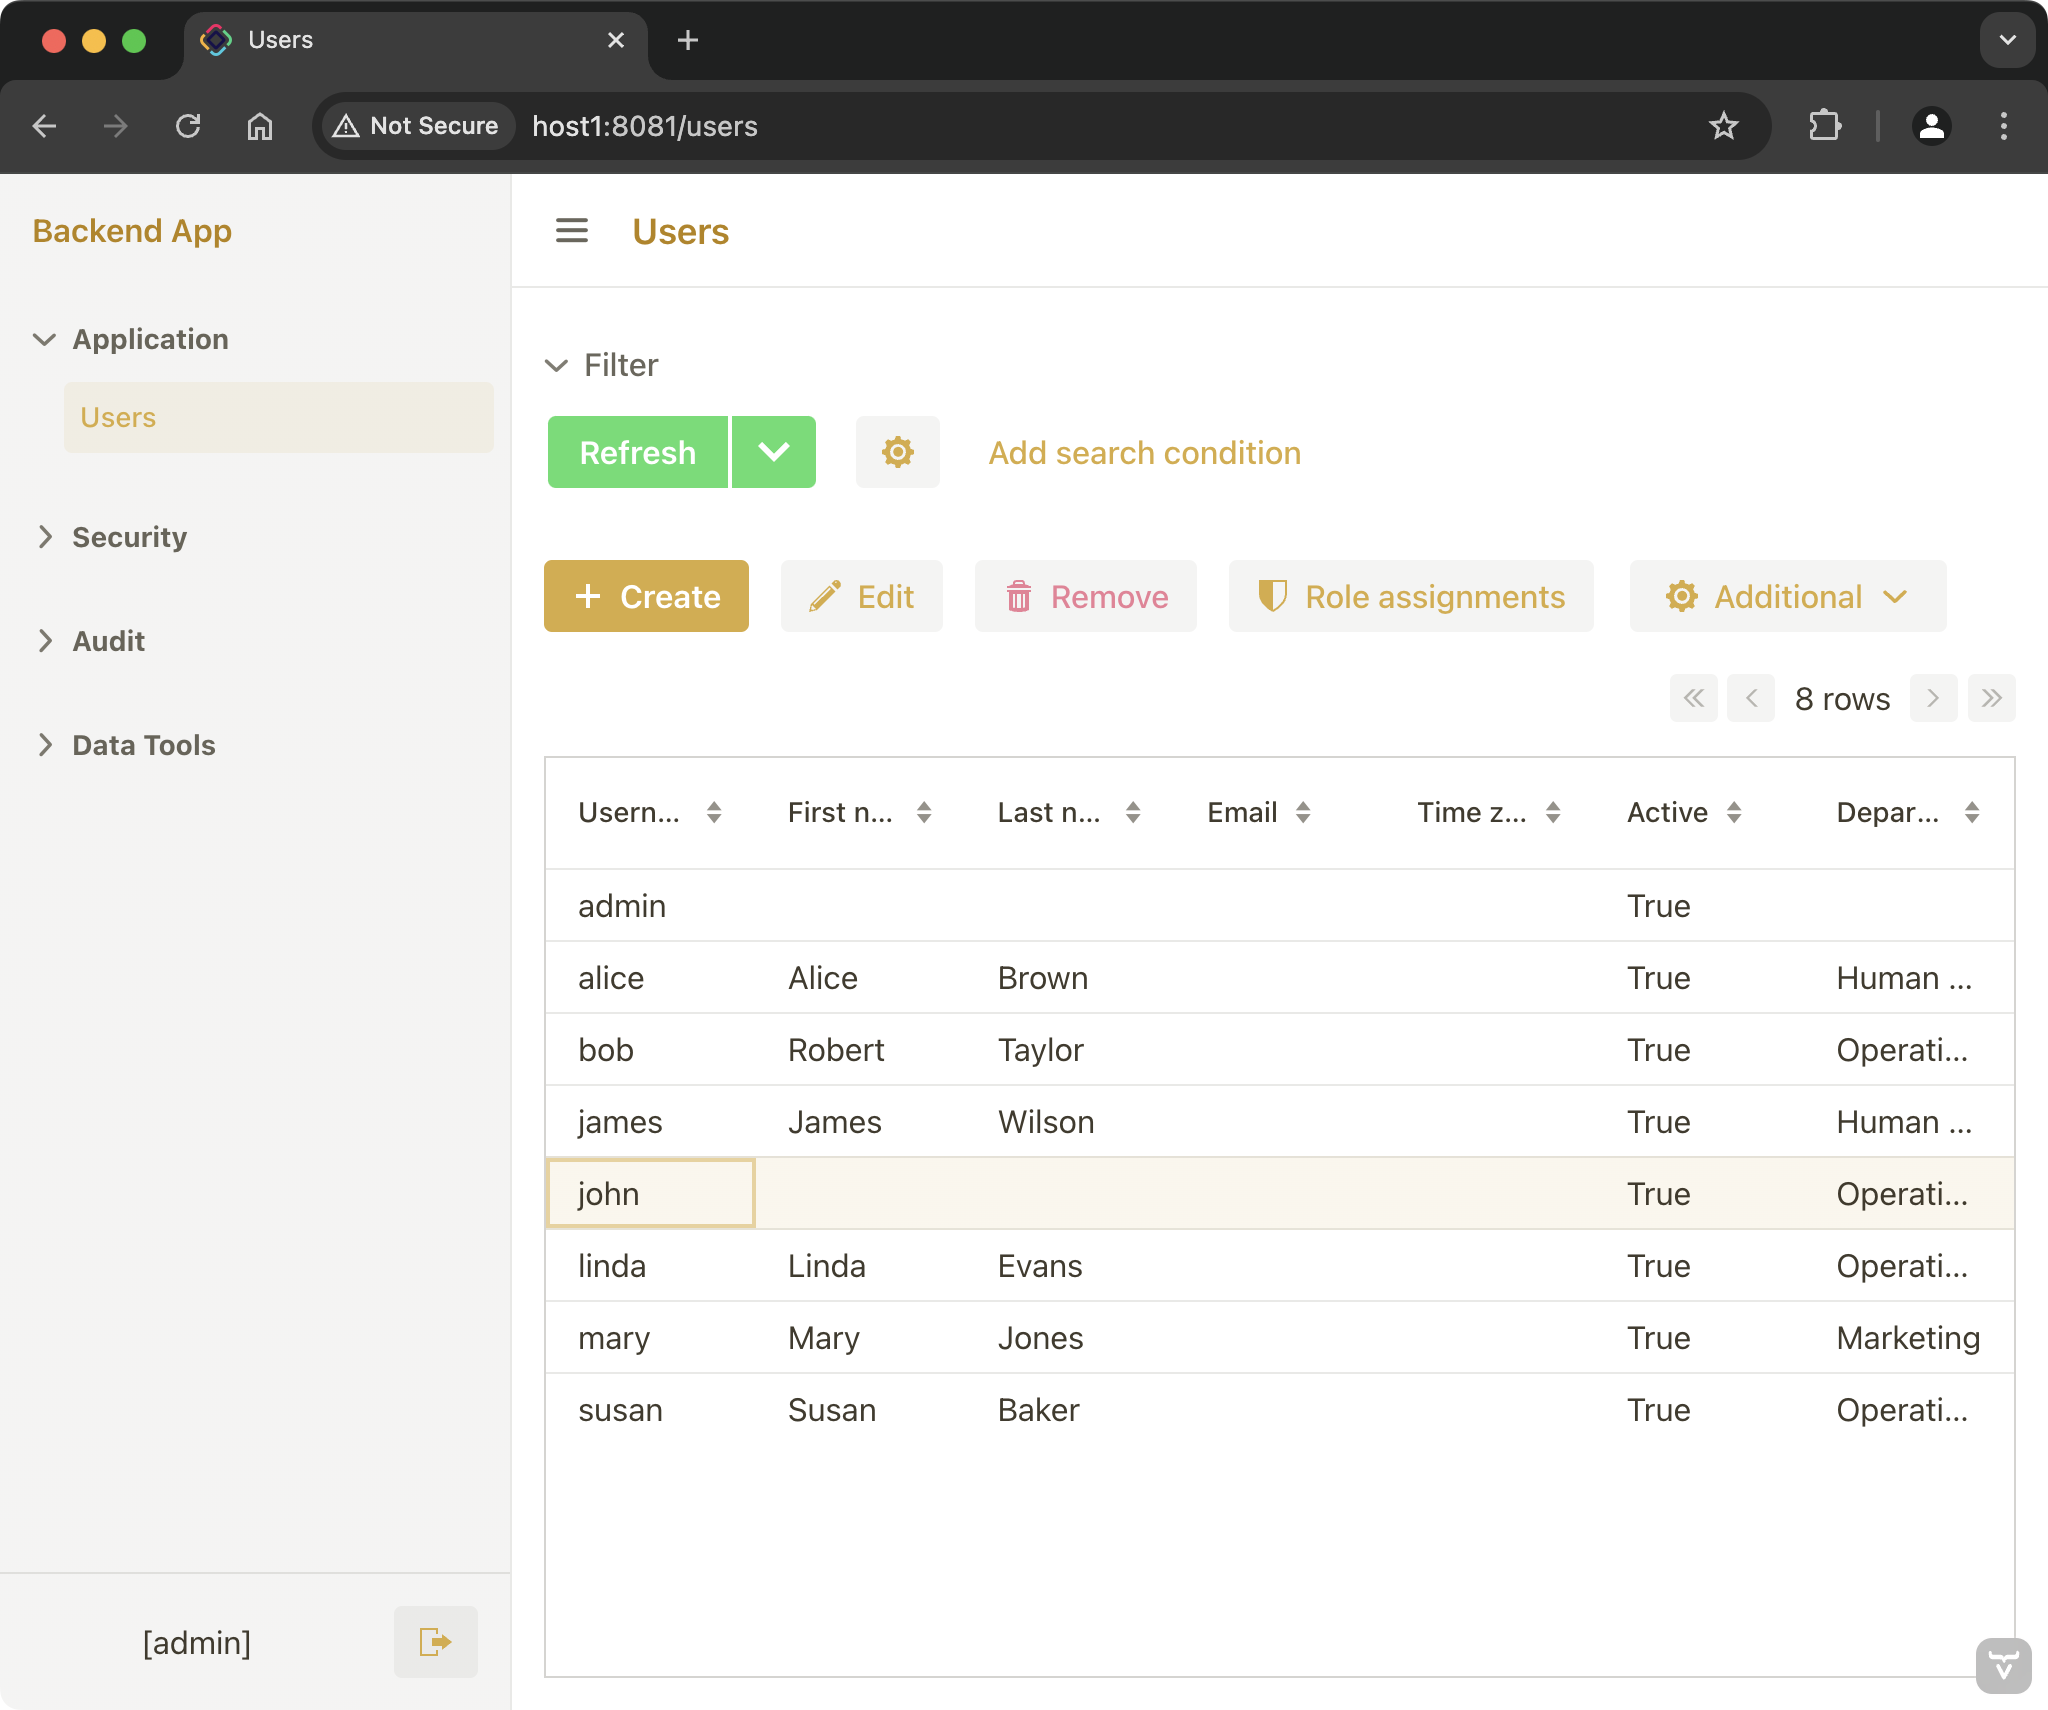
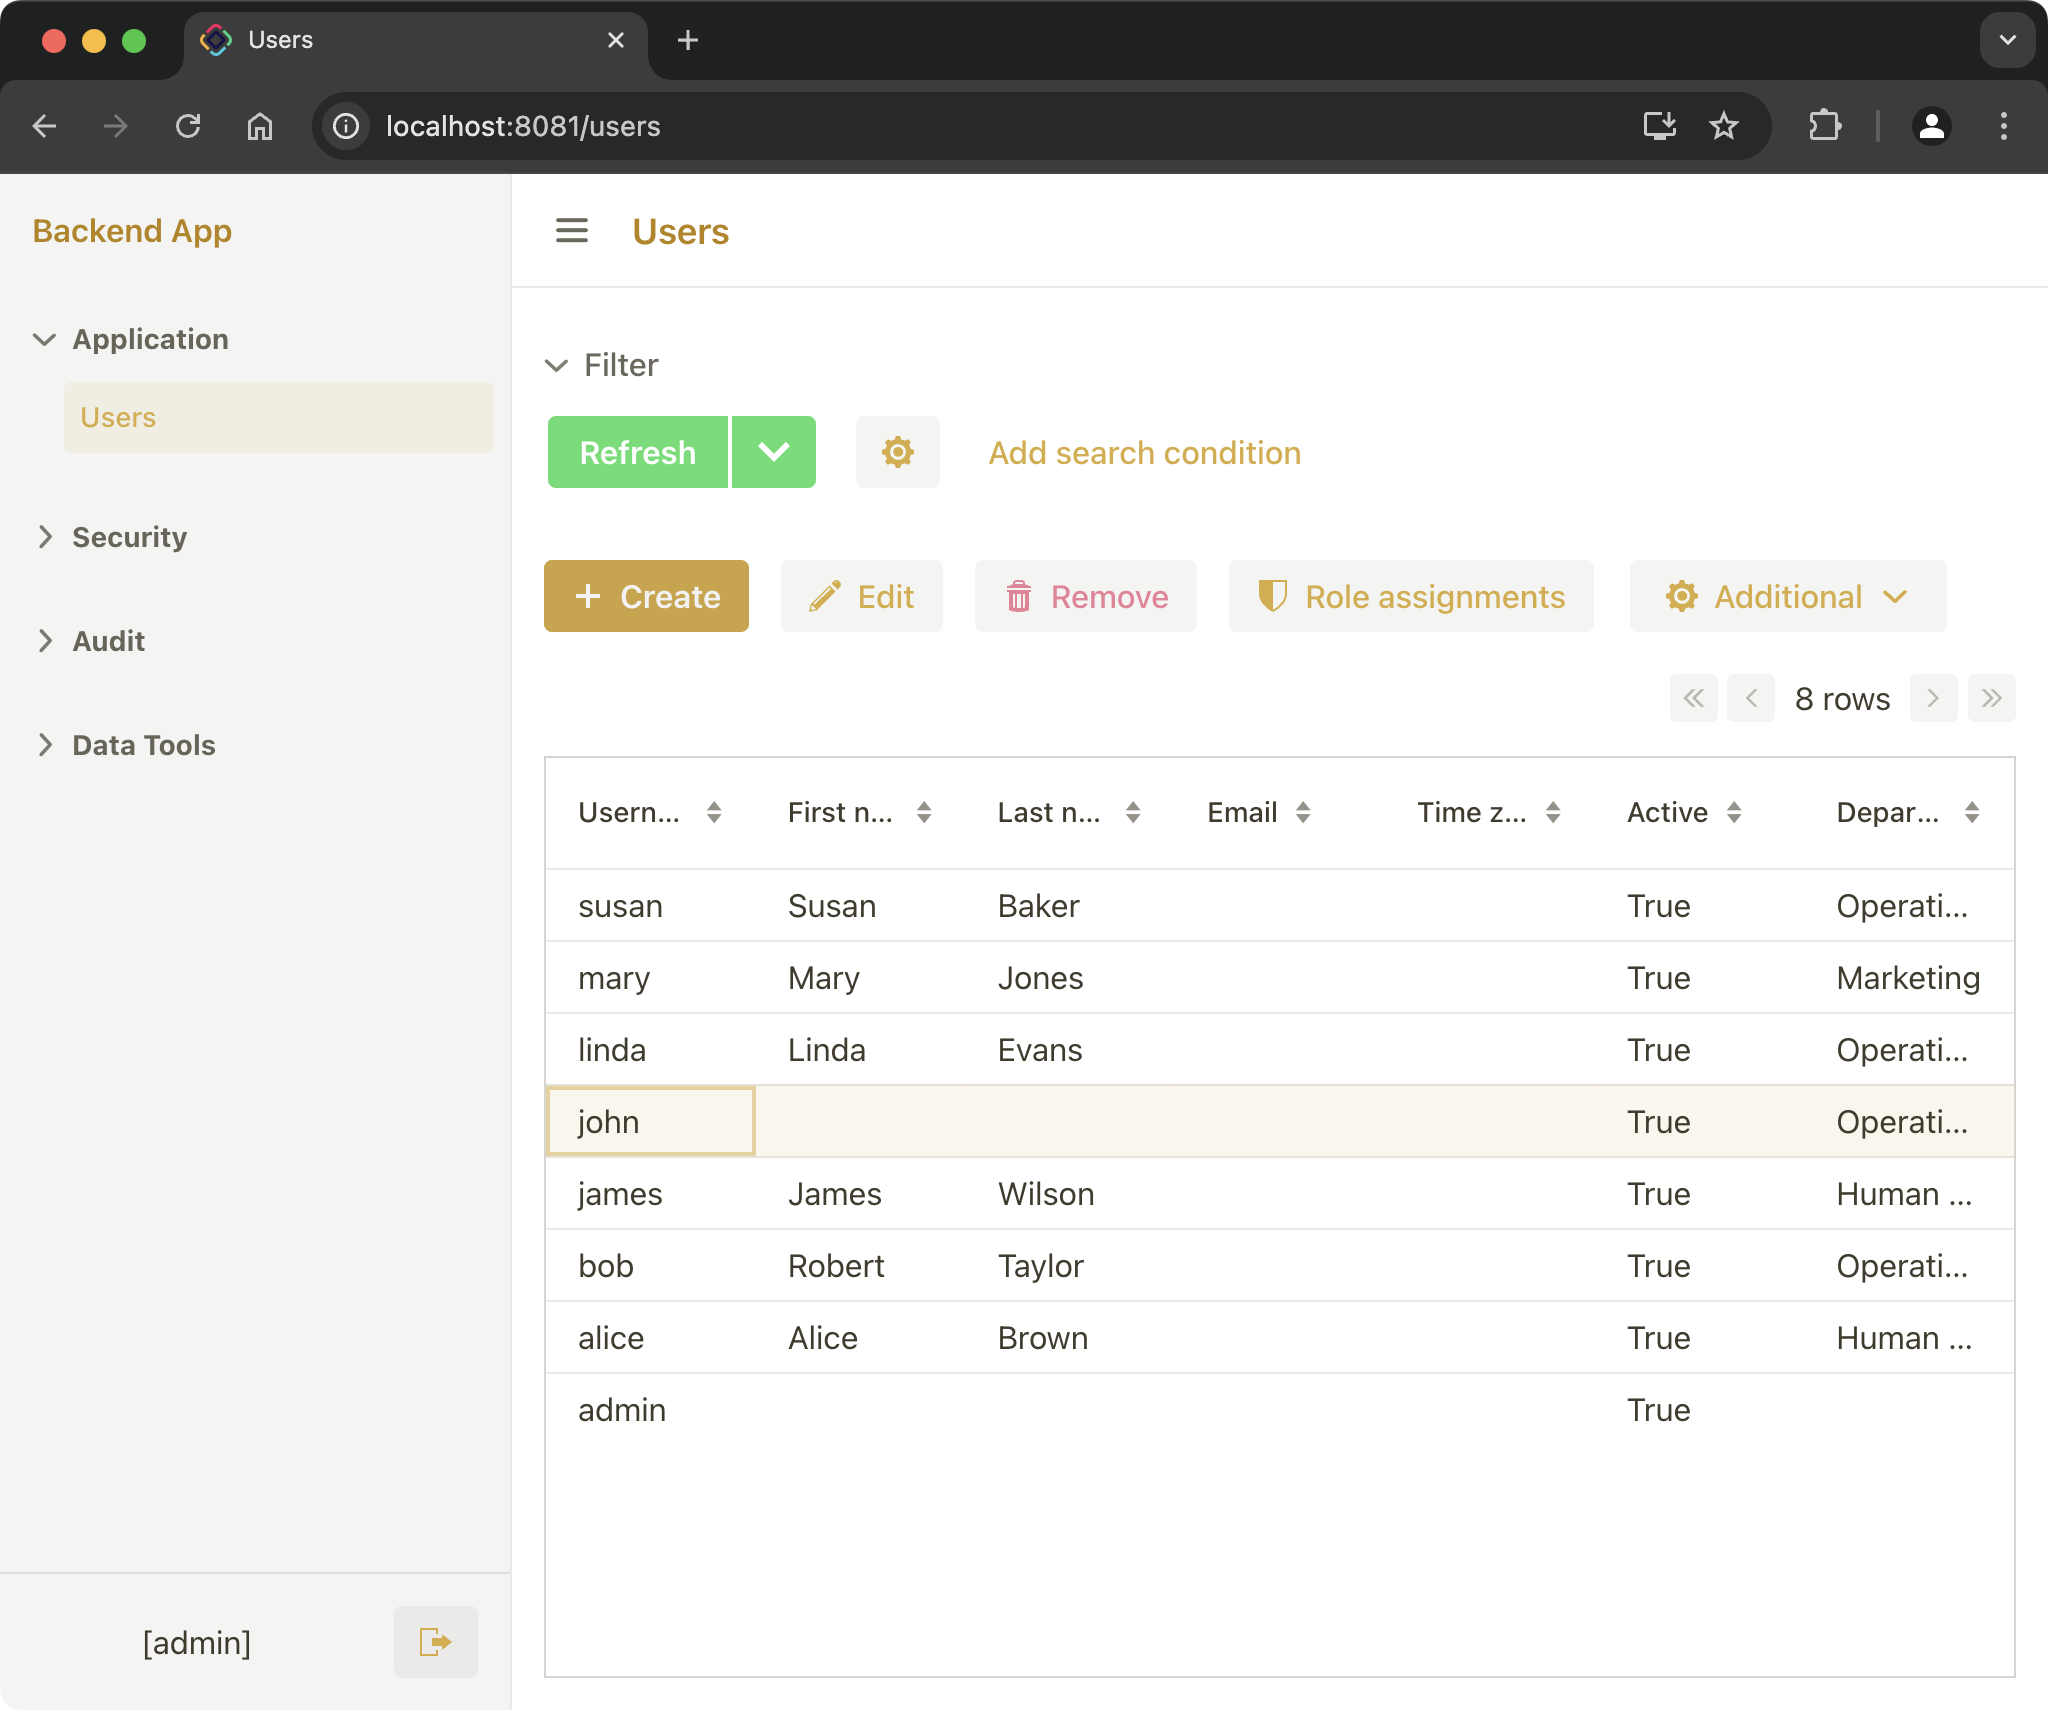
Update according to changes in Jmix 2.5

diff --git a/frontend-app/src/main/java/com/company/frontend/FrontendAppApplication.java b/frontend-app/src/main/java/com/company/frontend/FrontendAppApplication.java
@@ -12,14 +12,9 @@ import org.springframework.beans.factory.annotation.Autowired;
 import org.springframework.boot.SpringApplication;
 import org.springframework.boot.autoconfigure.SpringBootApplication;
 import org.springframework.boot.context.event.ApplicationStartedEvent;
-import org.springframework.boot.context.properties.ConfigurationProperties;
-import org.springframework.boot.autoconfigure.jdbc.DataSourceProperties;
 import org.springframework.context.annotation.Bean;
-import org.springframework.context.annotation.Primary;
 import org.springframework.context.event.EventListener;
 import org.springframework.core.env.Environment;
-
-import javax.sql.DataSource;
 
 @Push
 @Theme(value = "frontend-app")
@@ -32,20 +27,6 @@ public class FrontendAppApplication implements AppShellConfigurator {
 
     public static void main(String[] args) {
         SpringApplication.run(FrontendAppApplication.class, args);
-    }
-
-    @Bean
-    @Primary
-    @ConfigurationProperties("main.datasource")
-    DataSourceProperties dataSourceProperties() {
-        return new DataSourceProperties();
-    }
-
-    @Bean
-    @Primary
-    @ConfigurationProperties("main.datasource.hikari")
-    DataSource dataSource(final DataSourceProperties dataSourceProperties) {
-        return dataSourceProperties.initializeDataSourceBuilder().build();
     }
 
     // tag::backendFileStorage[]
